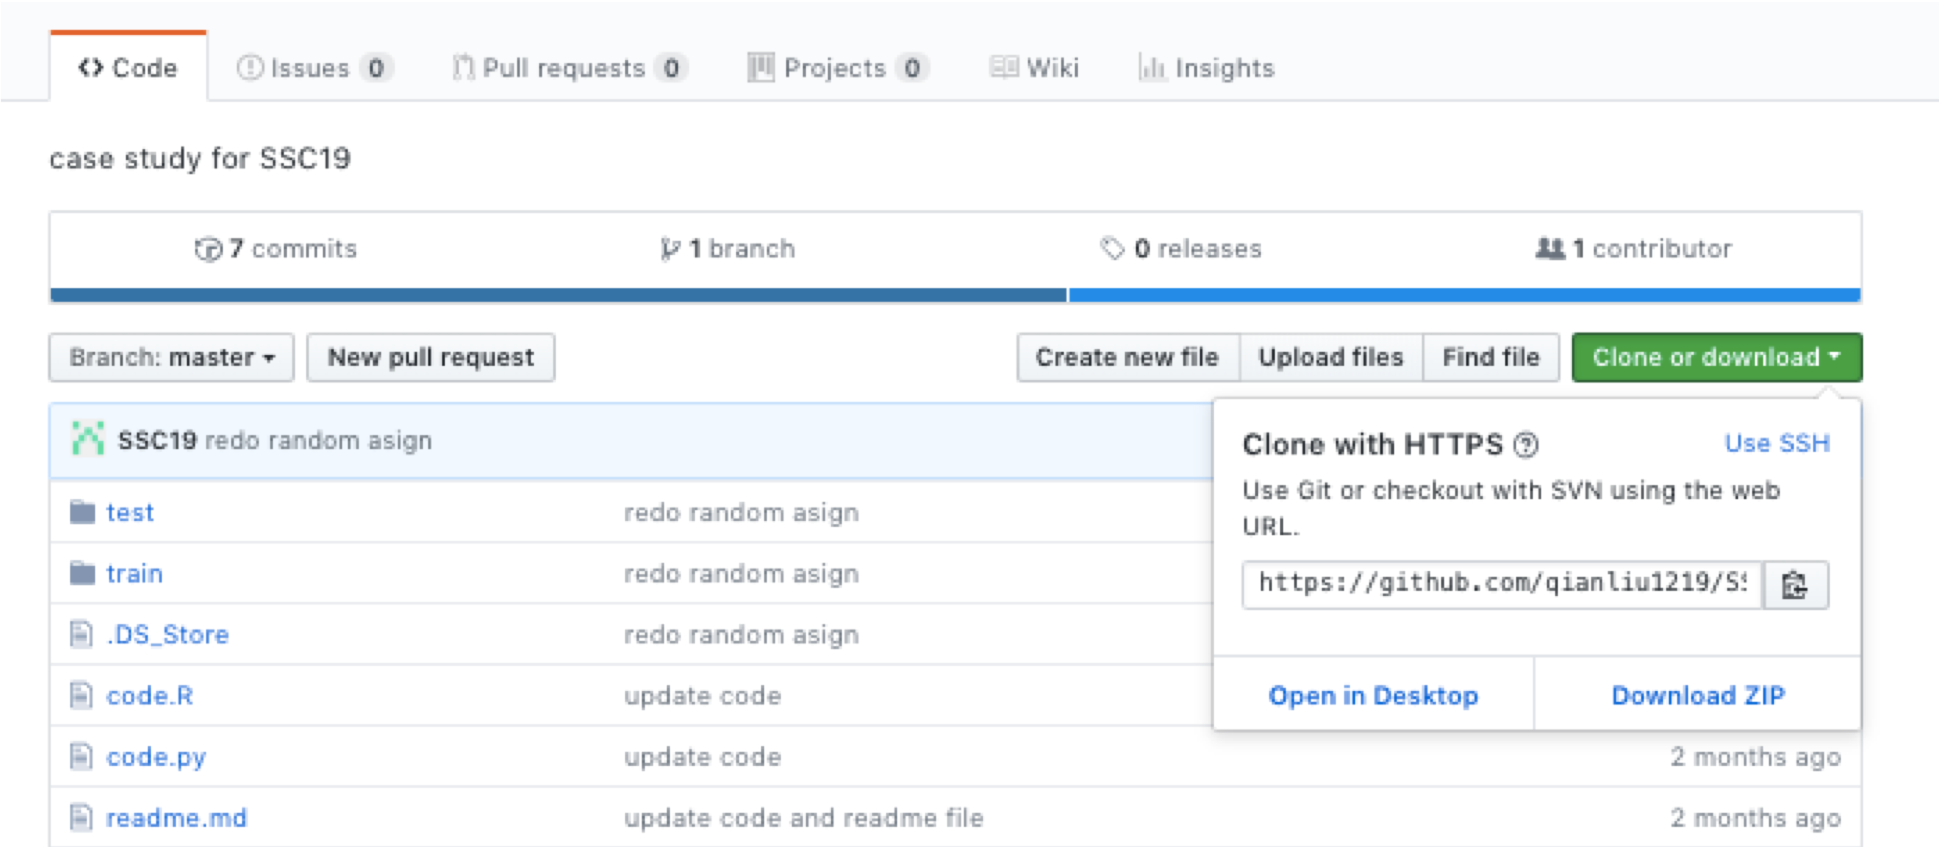
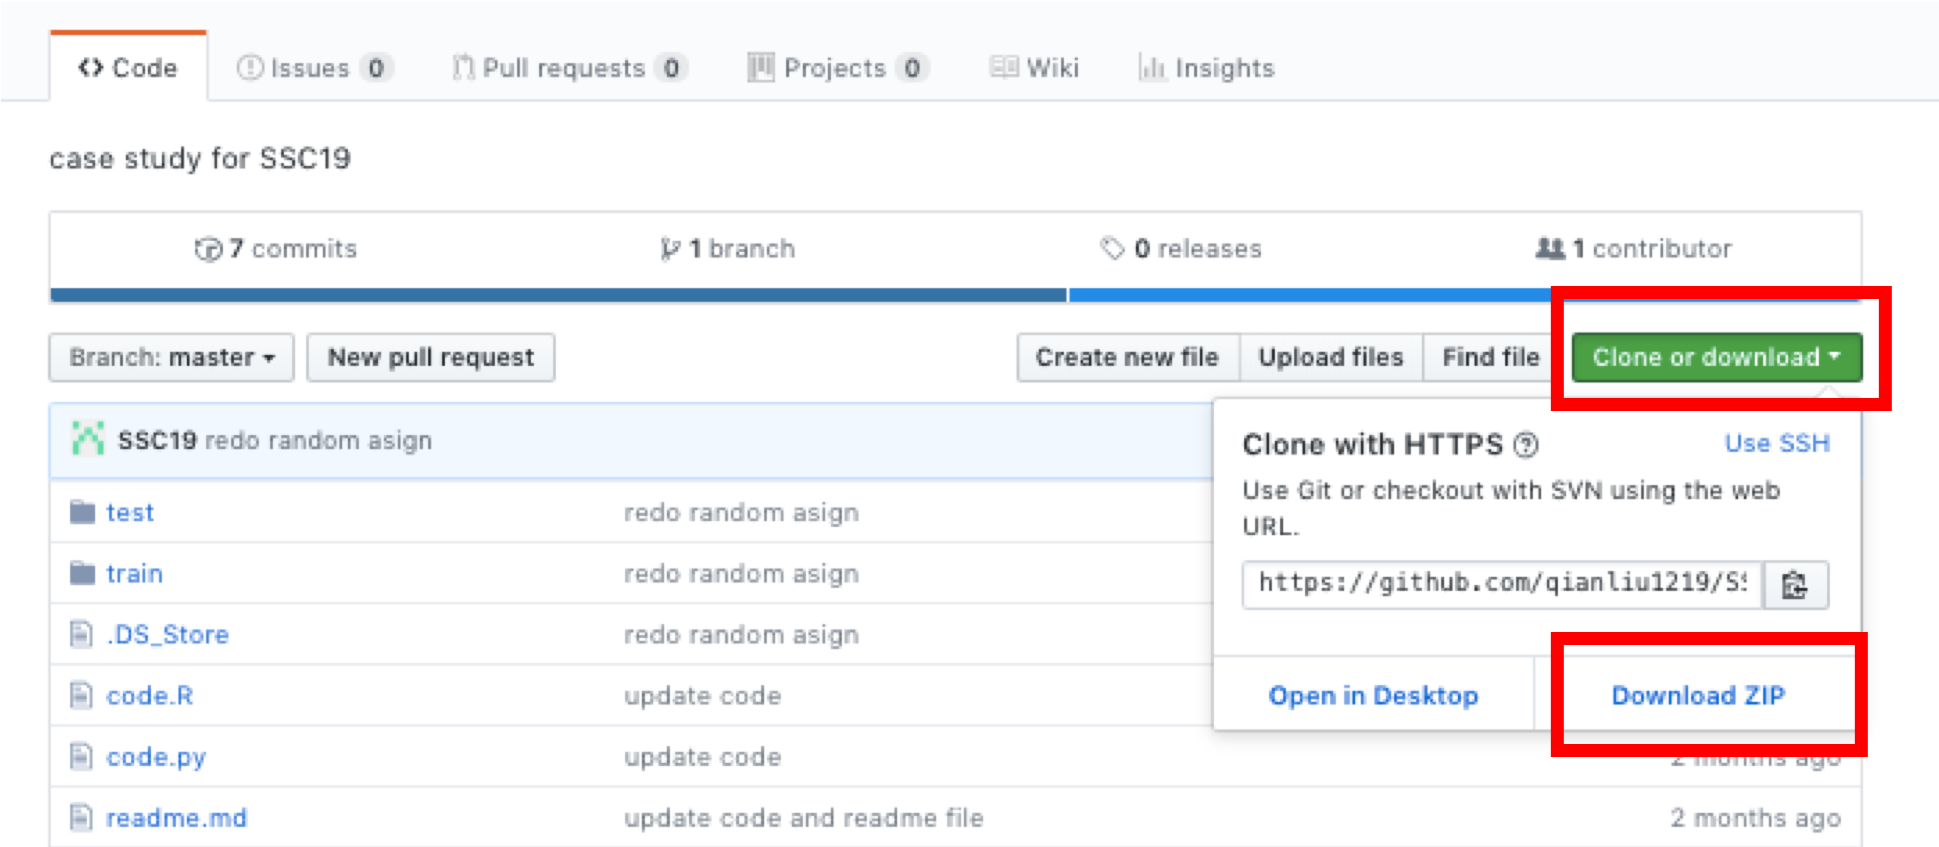
add pic to readme

Changed region(s): [[0.7736, 0.7367, 0.9902, 0.9209], [0.7736, 0.3377, 0.9902, 0.4911]]

diff --git a/readme.md b/readme.md
@@ -1,4 +1,27 @@
->The raw image set used in this case study is [BBBC005v1](https://data.broadinstitute.org/bbbc/BBBC005/) from the Broad Bioimage Benchmark Collection [Ljosa et al., Nature Methods, 2012].
+# SSC19 Case Study
+## Titile
+Counting Cells in Microscopic Images
+## Datasource 
+[BBBC005v1](https://data.broadinstitute.org/bbbc/BBBC005/) from the Broad Bioimage Benchmark Collection [Ljosa et al., Nature Methods, 2012].
+## Organizer
+Dr. Pingzhao Hu, Department of Biochemistry and Medical Genetics, University of Manitoba
+## Background
+The emerge of high-throughput microscopy modality triggers the “big data” problem by introducing huge numbers of digital images even in a single molecular biology experiment. It is no longer possible to analyze the microscopic images manually even for estimating a simple feature like cell count. Therefore, the needs for automated cell counting become crucial. 
+
+BBBC005v1 is a simulated image dataset. It provides in- and out-of-focus synthetic images. These images were simulated for a given cell count. Gaussian filters were applied to the images to simulate the focus blur. Each image is in 8-bit TIF format and the size is 696 x 520 pixels. The nuclei and cell body areas were matched to the average nuclei and cell areas from a real microscopic dataset.
+
+Three of 16 blur levels (F1, F23, F48) of the BBBC005v1 dataset were selected as our raw image data for this case study, which ended up 3,600 images. Then these 3,600 images were randomly assigned to training set (2,400) and testing set (1,200). 
+
+## Research Question
+This case aims to encourage participants study on how to process and analyse image data. Participants are asked to use provided images to predict the cell counts. 
+
+## How to download?
+Open the SSC19 github repository [here](https://github.com/SSC19/SSC19).
+
+Click the green botton on the upright of the webpage.![download botton](https://github.com/qianliu1219/SSC19/blob/master/other/download_botton.png) 
+
+
+
 # train.zip
 Training set contains 2,400 synthetic fluorescent cell microscopy images which were randomly selected from 3 levels of blur (*F1,F23,F48*) and 2 kinds of stain (*w1,w2*). 
 - 400 from each of the folllowing 6 subsets, *F1_w1,F1_w2,F23_w1,F23_w2,F48_w1,F48_w2*.
